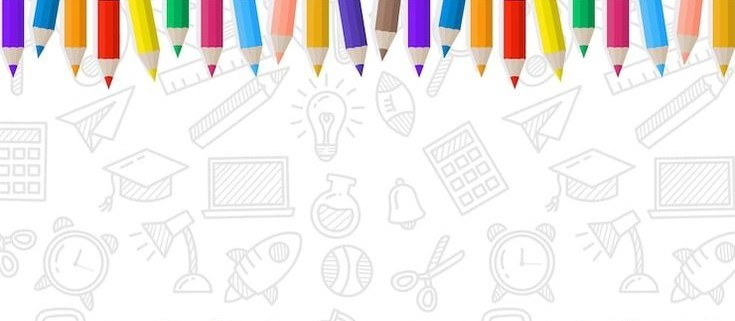
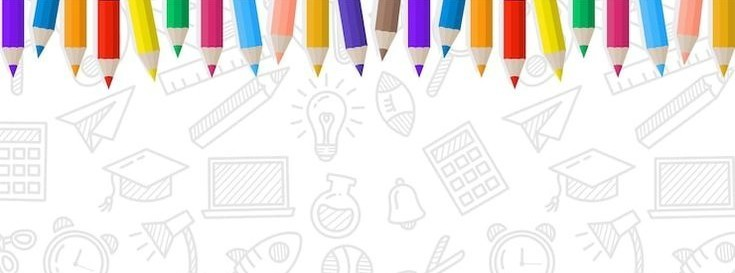
Update website

diff --git a/index.html b/index.html
@@ -10,13 +10,14 @@
   <link rel="preconnect" href="https://fonts.gstatic.com" crossorigin>
   <link href="https://fonts.googleapis.com/css2?family=Fredoka:wght@400;600;700&family=Montserrat:wght@400;500;600;700;800&display=swap" rel="stylesheet">
   <link rel="stylesheet" href="https://use.fontawesome.com/releases/v5.15.4/css/all.css">
-    <script src="https://kit.fontawesome.com/a18a5d7723.js" crossorigin="anonymous"></script>
+  <script src="https://kit.fontawesome.com/a18a5d7723.js" crossorigin="anonymous"></script>
+  <link href="https://cdn.jsdelivr.net/npm/bootstrap@5.3.8/dist/css/bootstrap.min.css" rel="stylesheet" integrity="sha384-sRIl4kxILFvY47J16cr9ZwB07vP4J8+LH7qKQnuqkuIAvNWLzeN8tE5YBujZqJLB" crossorigin="anonymous">
   <link href="css/bootstrap.min.css" rel="stylesheet">
   <link href="css/style.css" rel="stylesheet">
 </head>
 <body>
   <div class="site-header">
-    <div class="top-strip">
+    <div class="top-strip d-none">
       <div class="container d-flex justify-content-between align-items-center py-2 gap-3 flex-wrap">
         <span><i class="fas fa-map-marker-alt me-2"></i>212 Manser Street, Meyerspark, Pretoria</span>
         <span><i class="fas fa-phone-alt me-2"></i><a href="tel:+27825454339">082 545 4339</a></span>
@@ -34,7 +35,7 @@
         </button>
         <div class="collapse navbar-collapse" id="mainNav">
           <div class="navbar-nav mx-auto">
-            <a class="nav-link active" href="index.html">Home</a>
+            <a class="nav-link active" href="#!">Home</a>
             <a class="nav-link" href="about.html">About</a>
             <a class="nav-link" href="program.html">Programs</a>
             <a class="nav-link" href="service.html">Services</a>
@@ -53,7 +54,29 @@
   
   </div>
 
-  <img src="img/Back-to-School.jpg" alt="" style="width: 100%; height: auto; object-fit: cover; margin-top: -80px;">
+  <div id="carouselExampleAutoplaying" style="object-fit: cover; margin-top: -50px;" class="carousel slide" data-bs-ride="carousel">
+  <div class="carousel-inner">
+    <div class="carousel-item active">
+        <img src="img/Back-to-School.jpg" class="d-block w-100" alt="" >
+    </div>
+    <div class="carousel-item">
+      <img src="img/colorful.jpg" class="d-block w-100" alt="" >
+    </div>
+    <div class="carousel-item">
+      <img src="img/Vetores.jpg" class="d-block w-100" alt="" >
+    </div>
+  </div>
+  <button class="carousel-control-prev" type="button" data-bs-target="#carouselExampleAutoplaying" data-bs-slide="prev">
+    <span class="carousel-control-prev-icon" aria-hidden="true"></span>
+    <span class="visually-hidden">Previous</span>
+  </button>
+  <button class="carousel-control-next" type="button" data-bs-target="#carouselExampleAutoplaying" data-bs-slide="next">
+    <span class="carousel-control-next-icon" aria-hidden="true"></span>
+    <span class="visually-hidden">Next</span>
+  </button>
+</div>
+
+
 
   <header class="hero-shell" > <!-- style="background-image: url('img/Vetores.jpg');" -->
     <div class="container hero-layout">
@@ -152,7 +175,7 @@
 
         <div class="program-grid">
           <article class="program-card reveal">
-            <div class="program-visual" style="background-image:url('img/Kids_room.jpeg')"></div>
+            <div class="program-visual" style="background-image:url('img/Twinkle-Tots.jpeg')"></div>
             <div class="program-body">
               <span class="pill">Twinkle Tots</span>
               <h3>0–23 months</h3>
@@ -162,7 +185,7 @@
           </article>
 
           <article class="program-card reveal">
-            <div class="program-visual" style="background-image:url('img/room-logo.jpeg')"></div>
+            <div class="program-visual" style="background-image:url('img/Raising-Stars.jpeg')"></div>
             <div class="program-body">
               <span class="pill">Rising Stars</span>
               <h3>2–3 years</h3>
@@ -172,7 +195,7 @@
           </article>
 
           <article class="program-card reveal">
-            <div class="program-visual" style="background-image:url('img/Reception.jpeg')"></div>
+            <div class="program-visual" style="background-image:url('img/Planet-Explorers.jpeg')"></div>
             <div class="program-body">
               <span class="pill">Planet Explorers</span>
               <h3>3–4 years</h3>
@@ -182,7 +205,7 @@
           </article>
 
           <article class="program-card reveal">
-            <div class="program-visual" style="background-image:url('img/School.jpeg')"></div>
+            <div class="program-visual" style="background-image:url('img/little-Astronauts.jpeg')"></div>
             <div class="program-body">
               <span class="pill">Little Astronauts</span>
               <h3>4–5 years</h3>
@@ -192,7 +215,7 @@
           </article>
 
           <article class="program-card reveal">
-            <div class="program-visual" style="background-image:url('img/Entrance.jpeg')"></div>
+            <div class="program-visual" style="background-image:url('img/Galaxy-Graduates.jpeg')"></div>
             <div class="program-body">
               <span class="pill">Galaxy Graduates</span>
               <h3>5–6 years</h3>
@@ -202,7 +225,7 @@
           </article>
 
           <article class="program-card reveal">
-            <div class="program-visual" style="background-image:url('img/School-Gate.jpeg')"></div>
+            <div class="program-visual" style="background-image:url('img/After-Care.png')"></div>
             <div class="program-body">
               <span class="pill">Aftercare</span>
               <h3>Grade R–7</h3>
@@ -353,7 +376,7 @@
           </ul>
         </div>
       </div>
-      <div class="footer-bottom">© 2025 Peekaboo Planet Daycare &amp; Aftercare Centre</div>
+      <div class="footer-bottom">© 2025 Peekaboo Planet Daycare &amp; Aftercare Centre | <span class="d-block d-md-inline ">Designed by <a href="https://igrage.web.app/web-dev.html" target="_blank" rel="noreferrer">iGrage·inc</a></span></div>
     </div>
   </footer>
 
@@ -377,6 +400,7 @@
   </div>
 
   <script src="js/bootstrap.bundle.min.js"></script>
+  <script src="https://cdn.jsdelivr.net/npm/bootstrap@5.3.8/dist/js/bootstrap.bundle.min.js" integrity="sha384-FKyoEForCGlyvwx9Hj09JcYn3nv7wiPVlz7YYwJrWVcXK/BmnVDxM+D2scQbITxI" crossorigin="anonymous"></script>
   <script src="js/main.js"></script>
 </body>
 </html>

diff --git a/program.html b/program.html
@@ -17,7 +17,7 @@
 <body>
 
 <div class="site-header">
-  <div class="top-strip">
+  <div class="top-strip d-none">
     <div class="container d-flex justify-content-between align-items-center py-2 gap-3 flex-wrap">
       <span><i class="fas fa-map-marker-alt me-2"></i>212 Manser Street, Meyerspark, Pretoria</span>
       <span><i class="fas fa-phone-alt me-2"></i><a href="tel:+27825454339">082 545 4339</a></span>
@@ -36,7 +36,7 @@
           <div class="navbar-nav mx-auto">
             <a class="nav-link" href="index.html">Home</a>
             <a class="nav-link" href="about.html">About</a>
-            <a class="nav-link active" href="program.html">Programs</a>
+            <a class="nav-link active" href="#!">Programs</a>
             <a class="nav-link" href="service.html">Services</a>
             <a class="nav-link" href="event.html">Admissions</a>
             <a class="nav-link" href="contact.html">Contact</a>

diff --git a/about.html b/about.html
@@ -17,7 +17,7 @@
 <body>
 
 <div class="site-header">
-  <div class="top-strip">
+  <div class="top-strip d-none">
     <div class="container d-flex justify-content-between align-items-center py-2 gap-3 flex-wrap">
       <span><i class="fas fa-map-marker-alt me-2"></i>212 Manser Street, Meyerspark, Pretoria</span>
       <span><i class="fas fa-phone-alt me-2"></i><a href="tel:+27825454339">082 545 4339</a></span>
@@ -35,7 +35,7 @@
         <div class="collapse navbar-collapse" id="mainNav">
           <div class="navbar-nav mx-auto">
             <a class="nav-link" href="index.html">Home</a>
-            <a class="nav-link active" href="about.html">About</a>
+            <a class="nav-link active" href="#!">About</a>
             <a class="nav-link" href="program.html">Programs</a>
             <a class="nav-link" href="service.html">Services</a>
             <a class="nav-link" href="event.html">Admissions</a>

diff --git a/service.html b/service.html
@@ -17,7 +17,7 @@
 <body>
 
 <div class="site-header">
-  <div class="top-strip">
+  <div class="top-strip d-none">
     <div class="container d-flex justify-content-between align-items-center py-2 gap-3 flex-wrap">
       <span><i class="fas fa-map-marker-alt me-2"></i>212 Manser Street, Meyerspark, Pretoria</span>
       <span><i class="fas fa-phone-alt me-2"></i><a href="tel:+27825454339">082 545 4339</a></span>
@@ -37,7 +37,7 @@
             <a class="nav-link" href="index.html">Home</a>
             <a class="nav-link" href="about.html">About</a>
             <a class="nav-link" href="program.html">Programs</a>
-            <a class="nav-link active" href="service.html">Services</a>
+            <a class="nav-link active" href="#!">Services</a>
             <a class="nav-link" href="event.html">Admissions</a>
             <a class="nav-link" href="contact.html">Contact</a>
           </div>

diff --git a/contact.html b/contact.html
@@ -17,7 +17,7 @@
 <body>
 
 <div class="site-header">
-  <div class="top-strip">
+  <div class="top-strip d-none">
     <div class="container d-flex justify-content-between align-items-center py-2 gap-3 flex-wrap">
       <span><i class="fas fa-map-marker-alt me-2"></i>212 Manser Street, Meyerspark, Pretoria</span>
       <span><i class="fas fa-phone-alt me-2"></i><a href="tel:+27825454339">082 545 4339</a></span>
@@ -39,7 +39,7 @@
             <a class="nav-link" href="program.html">Programs</a>
             <a class="nav-link" href="service.html">Services</a>
             <a class="nav-link" href="event.html">Admissions</a>
-            <a class="nav-link active" href="contact.html">Contact</a>
+            <a class="nav-link active" href="#!">Contact</a>
           </div>
           <div class="nav-action pe-2">
             <span class="phone-pill"><i class="fas fa-phone-alt"></i></span>

diff --git a/event.html b/event.html
@@ -17,7 +17,7 @@
 <body>
 
 <div class="site-header">
-  <div class="top-strip">
+  <div class="top-strip d-none">
     <div class="container d-flex justify-content-between align-items-center py-2 gap-3 flex-wrap">
       <span><i class="fas fa-map-marker-alt me-2"></i>212 Manser Street, Meyerspark, Pretoria</span>
       <span><i class="fas fa-phone-alt me-2"></i><a href="tel:+27825454339">082 545 4339</a></span>
@@ -38,7 +38,7 @@
             <a class="nav-link" href="about.html">About</a>
             <a class="nav-link" href="program.html">Programs</a>
             <a class="nav-link" href="service.html">Services</a>
-            <a class="nav-link active" href="event.html">Admissions</a>
+            <a class="nav-link active" href="#!">Admissions</a>
             <a class="nav-link" href="contact.html">Contact</a>
           </div>
           <div class="nav-action pe-2">

diff --git a/css/style.css b/css/style.css
@@ -730,7 +730,7 @@ body { background: #fffdfa; }
 .floating-card { z-index:3; border:1px solid rgba(36,54,75,.08); box-shadow:0 18px 40px rgba(36,54,75,.13); }
 .card-one { left:-7%; top:15%; }
 .card-two { right:-5%; bottom:10%; }
-.section { padding: clamp(4rem,7vw,6.5rem) 0; }
+.section { padding: clamp(2rem,7vw,0.5rem) 0; }
 .intro-section { background: #fff; }
 .mini-badge { letter-spacing:.07em; }
 .feature-card { background: #ffe186; box-shadow:0 12px 34px rgba(36,54,75,.055); }

diff --git a/team.html b/team.html
@@ -21,7 +21,7 @@
   </head>
   <body>
     <div class="site-header">
-      <div class="top-strip">
+      <div class="top-strip d-none">
         <div
           class="container d-flex justify-content-between align-items-center py-2 gap-3 flex-wrap"
         >
